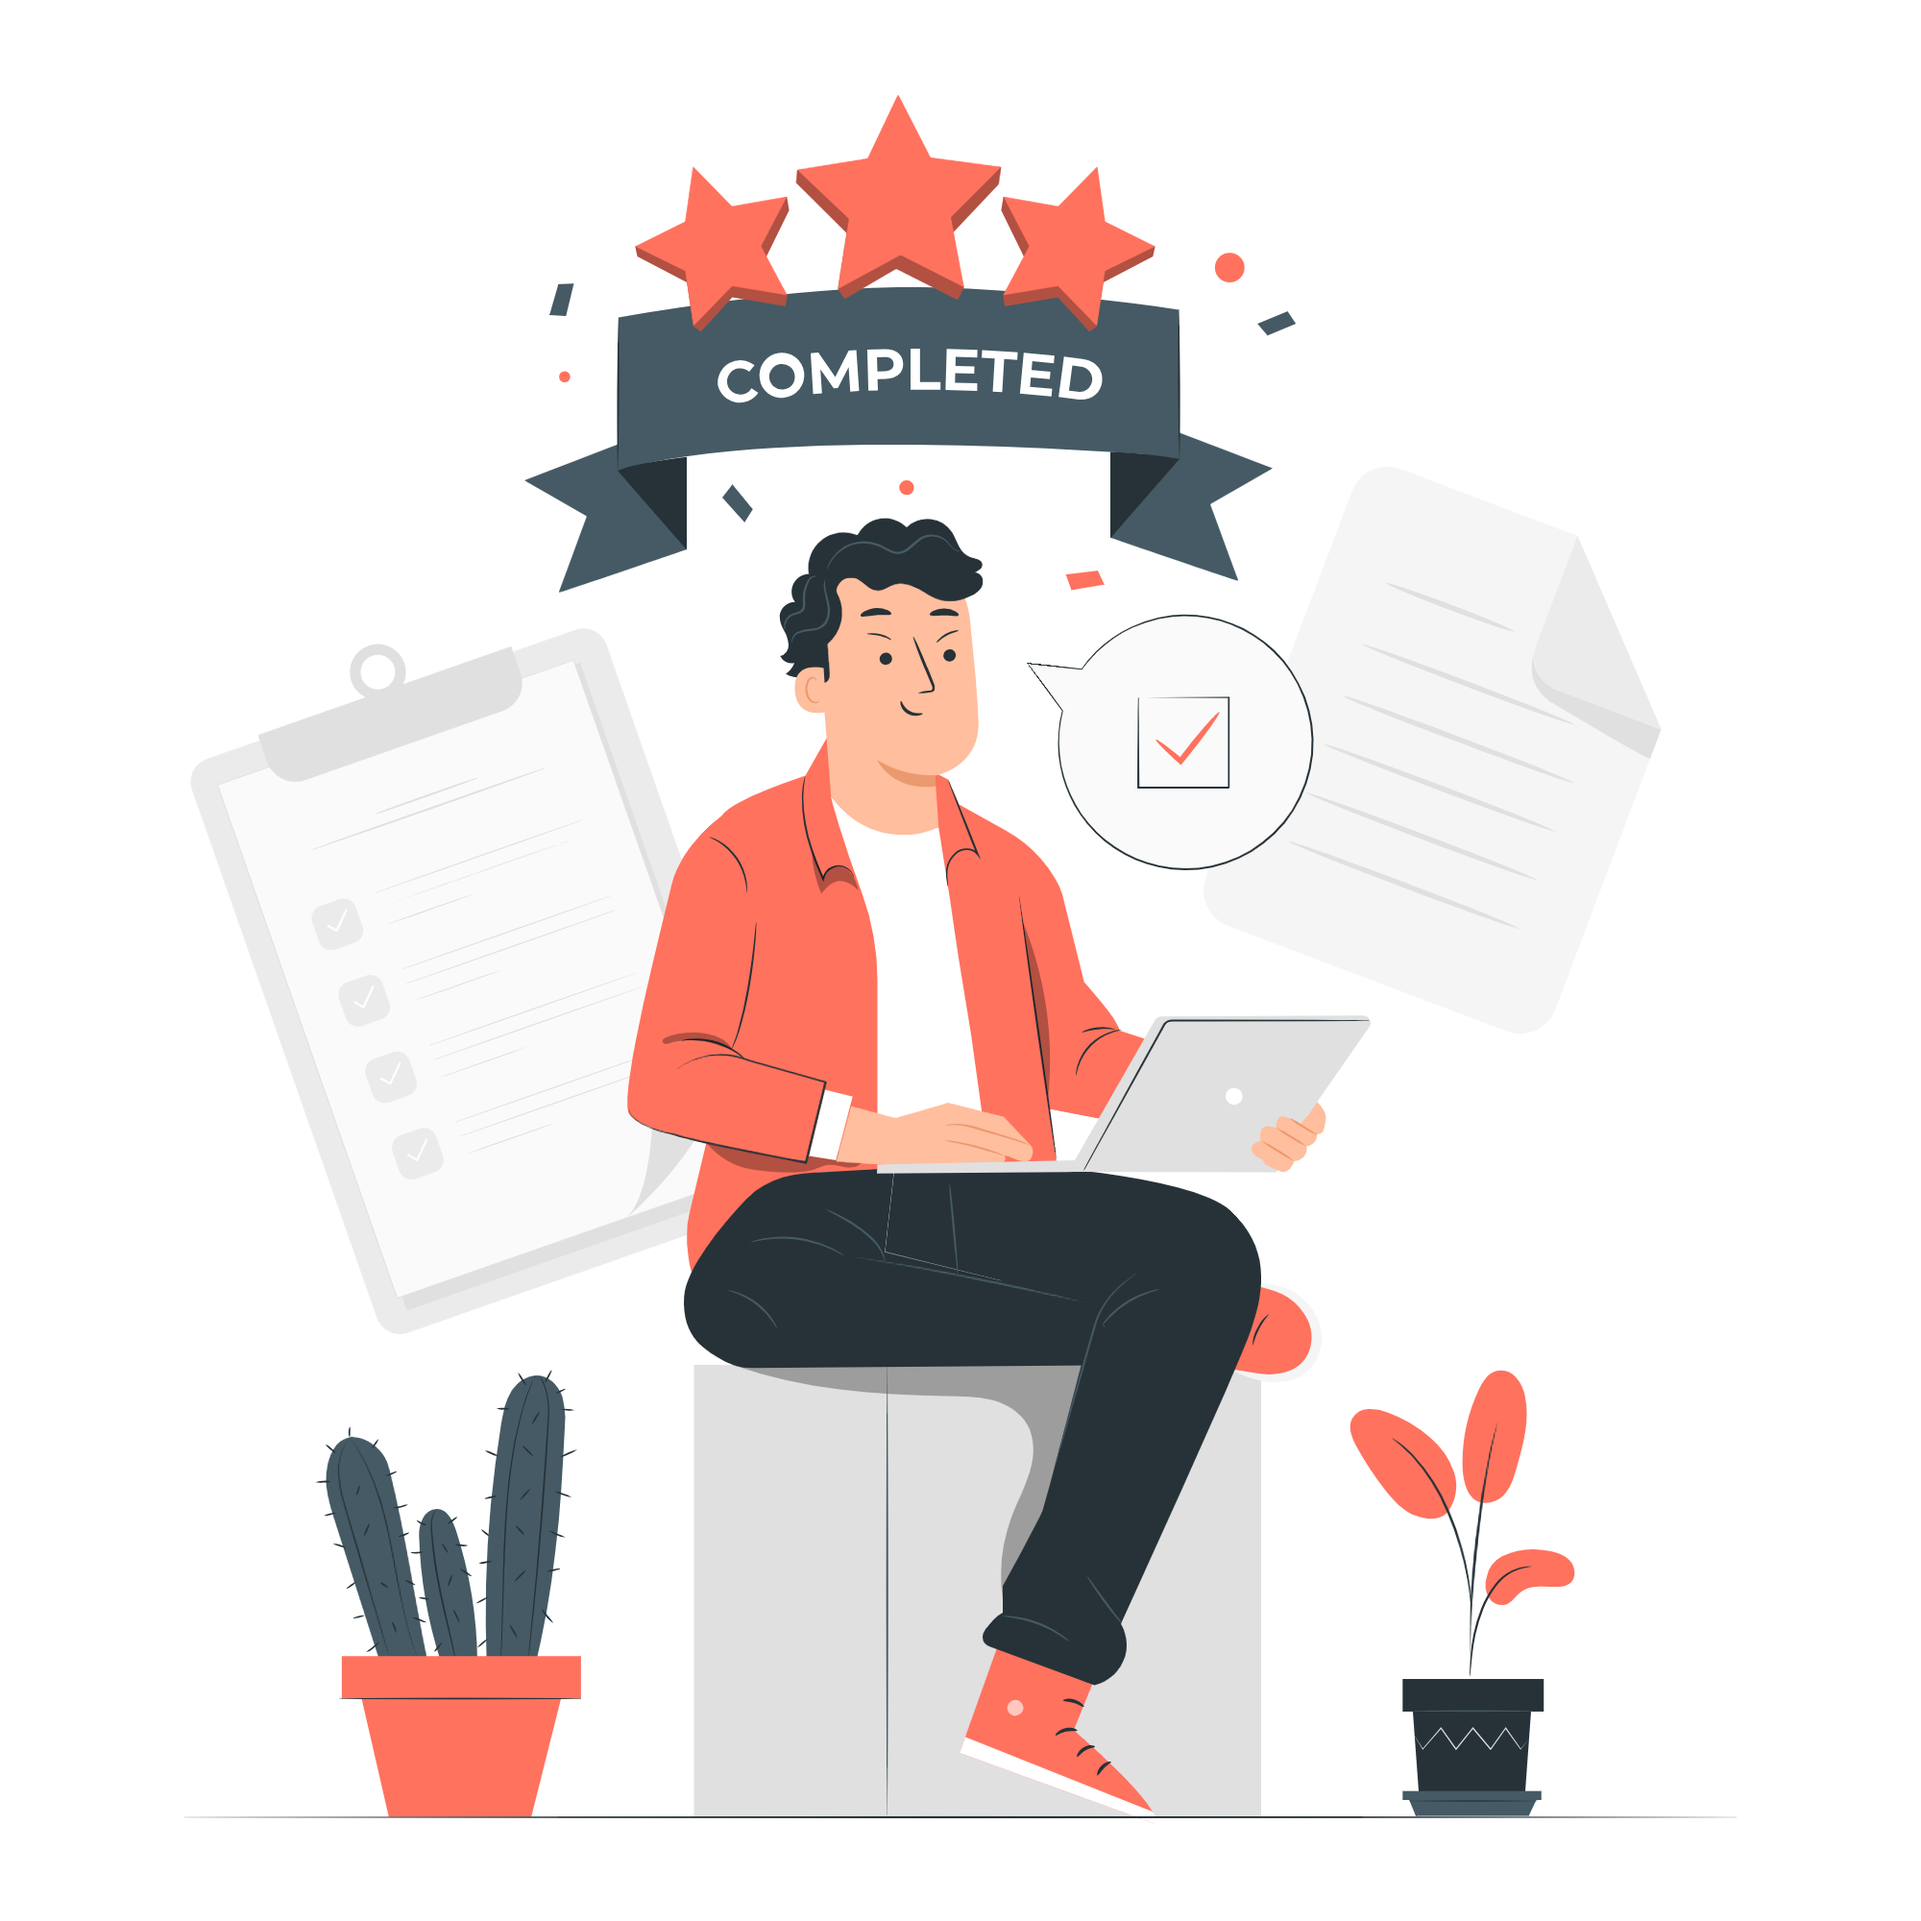
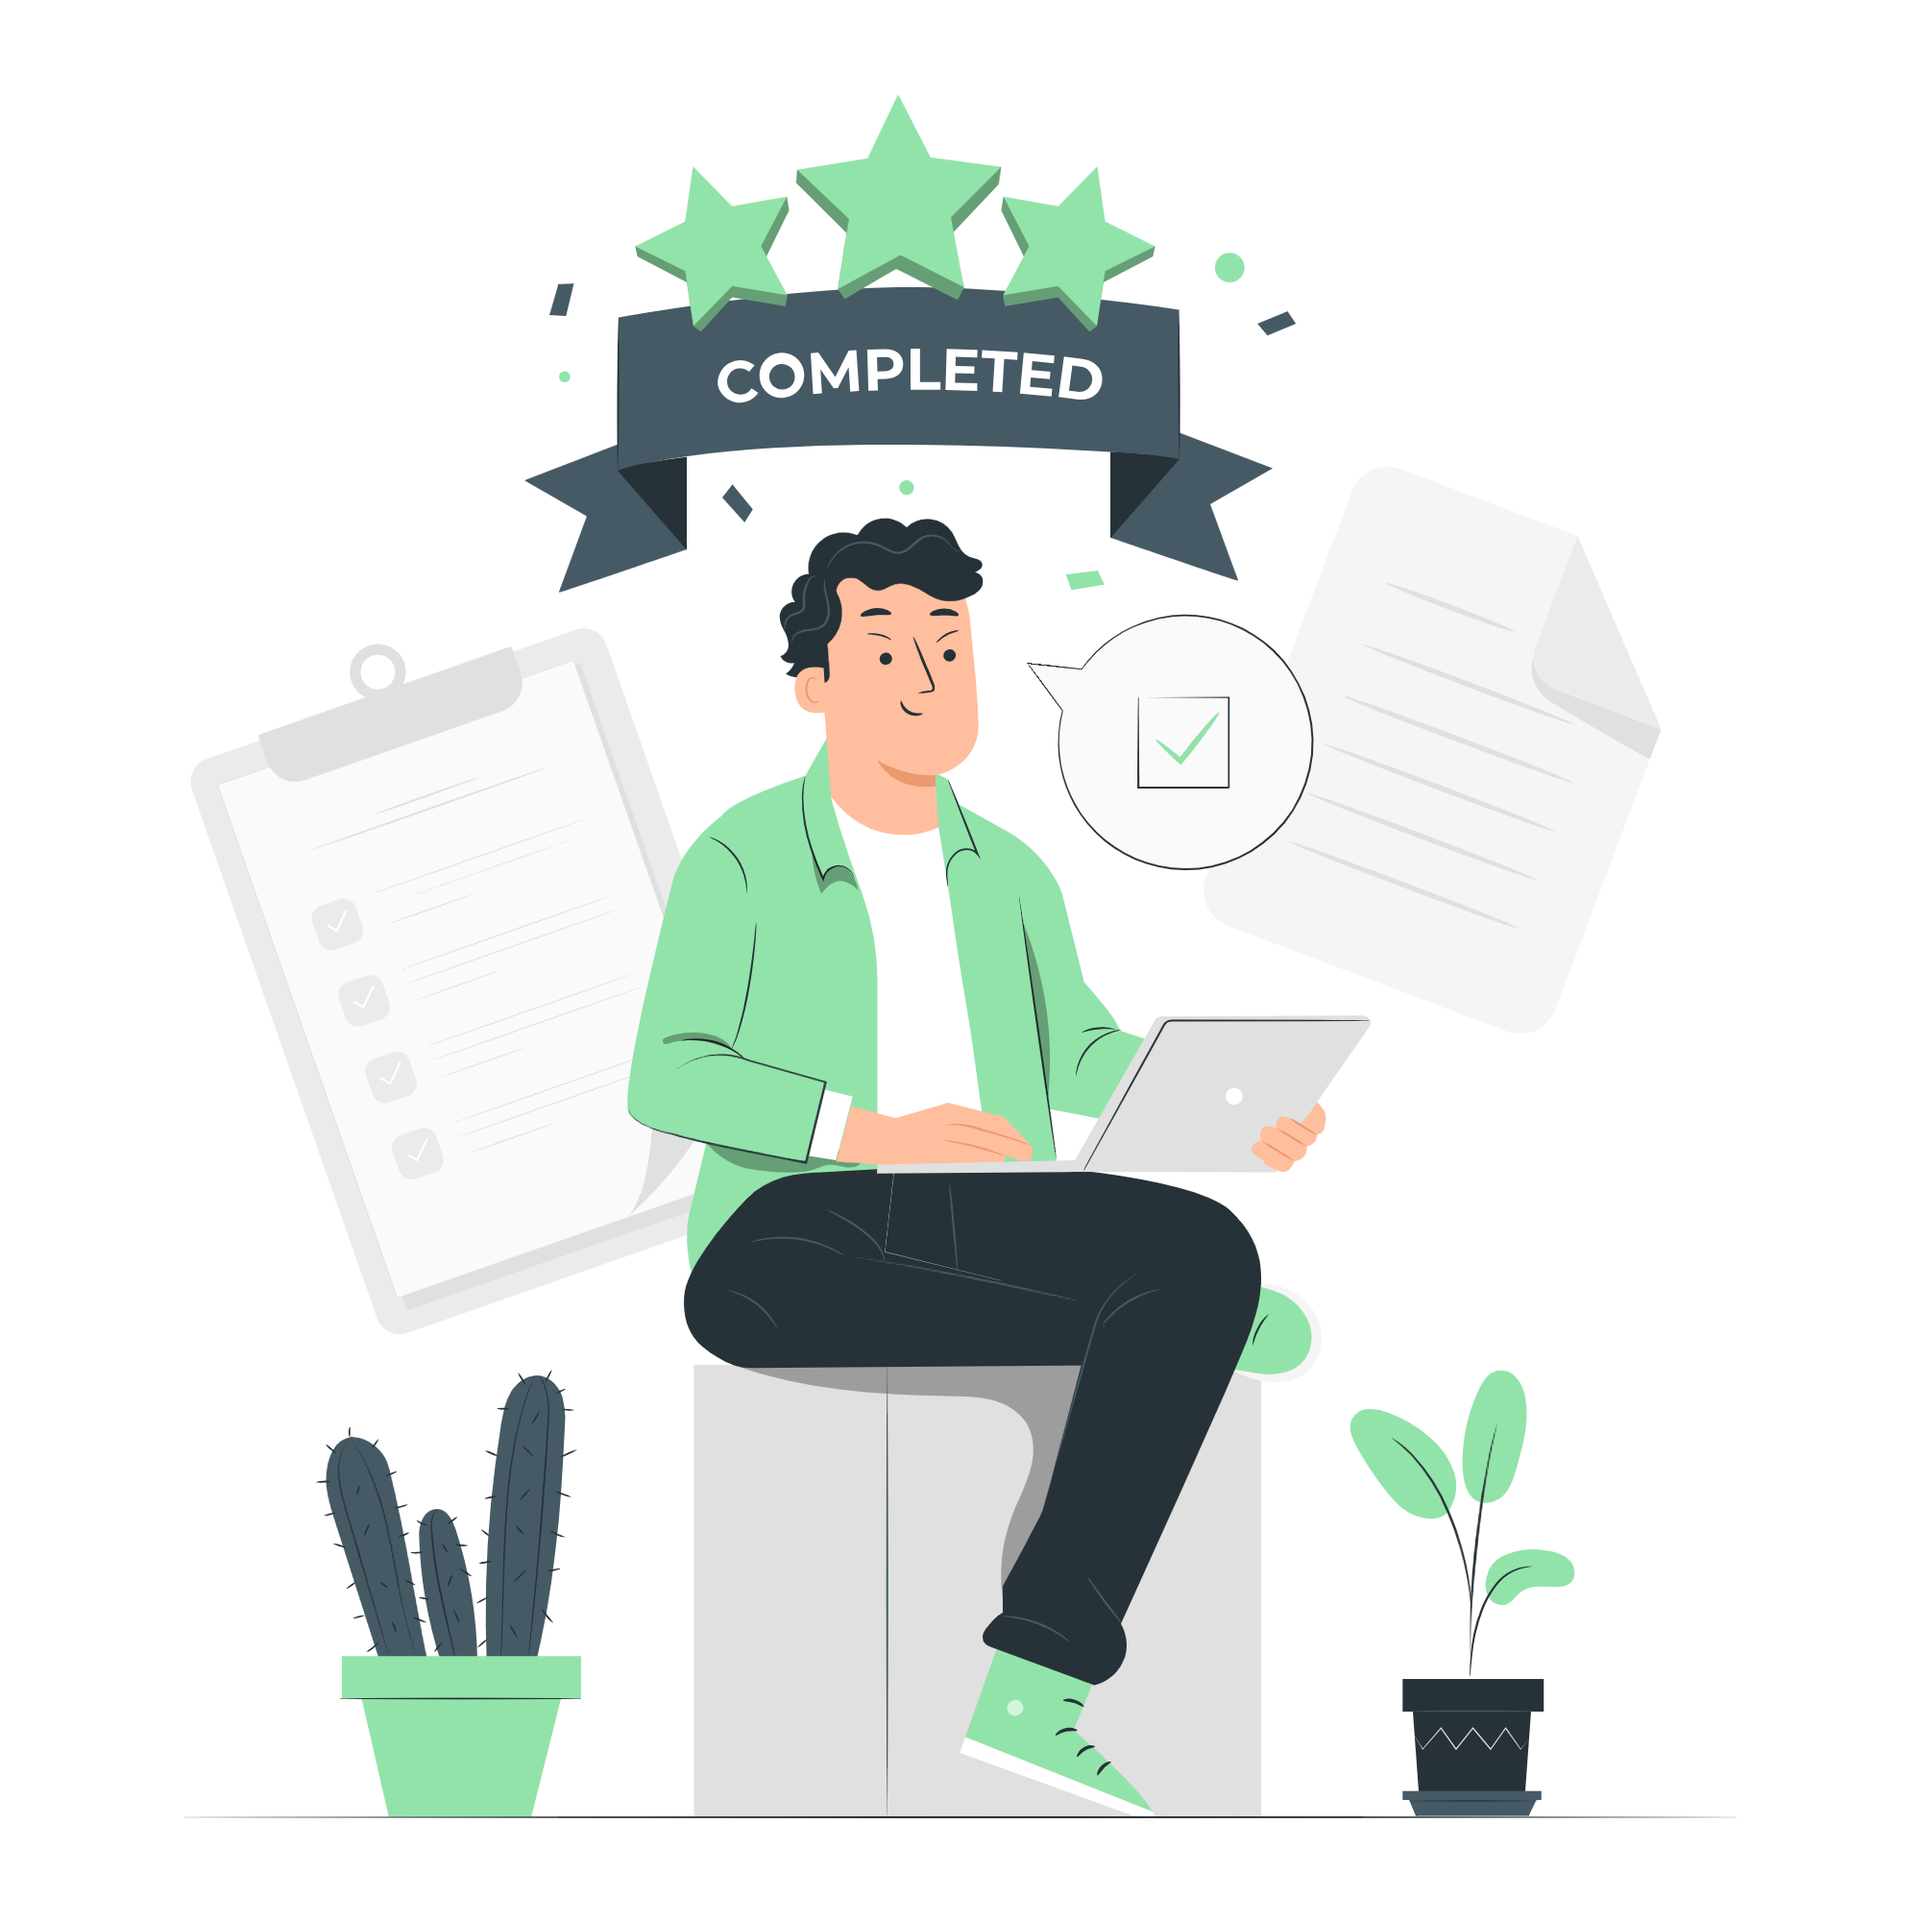
bug fixes

diff --git a/lib/screens/user_data.dart b/lib/screens/user_data.dart
@@ -1,4 +1,7 @@
 import 'package:flutter/material.dart';
+import 'package:studybuddy/screens/user_data2.dart';
+import 'package:studybuddy/utils/extension.dart';
+import 'package:studybuddy/widgets/custom_textfield.dart';
 
 class UserDataScreen extends StatefulWidget {
   const UserDataScreen({super.key});
@@ -9,51 +12,147 @@ class UserDataScreen extends StatefulWidget {
 
 class _UserDataScreenState extends State<UserDataScreen> {
   final levels = ["Level 1", "Level 2", "Level 3", "Level 4", "Level 5"];
-  String? selectedItem = "Level 1";
+  late String selectedItem;
+  TextEditingController nameController = TextEditingController();
+  TextEditingController deptController = TextEditingController();
+
+  @override
+  void initState() {
+    super.initState();
+    setState(() => selectedItem = levels[0]);
+  }
 
   @override
   Widget build(BuildContext context) {
     return SafeArea(
       child: Scaffold(
-        body: Padding(
-          padding: const EdgeInsets.all(15.0),
-          child: Column(
-            mainAxisAlignment: MainAxisAlignment.spaceEvenly,
-            children: [
-              const TextField(
-                decoration: InputDecoration(
-                  border: OutlineInputBorder(),
-                  hintText: "Enter your name",
+        body: Column(
+          children: [
+            SizedBox(
+              width: context.screenWidth,
+              height: context.screenHeight * 0.2,
+              child: const Center(
+                child: Text(
+                  "Input your Details",
+                  style: TextStyle(
+                    fontSize: 16,
+                    fontWeight: FontWeight.bold,
+                  ),
                 ),
               ),
-              const TextField(
-                decoration: InputDecoration(
-                  border: OutlineInputBorder(),
-                  hintText: "Enter your department",
-                ),
+            ),
+            const SizedBox(
+              height: 45,
+            ),
+            Padding(
+              padding: const EdgeInsets.all(15.0),
+              child: Column(
+                mainAxisAlignment: MainAxisAlignment.start,
+                crossAxisAlignment: CrossAxisAlignment.end,
+                children: [
+                  TextFieldWidget(
+                    textEditingController: nameController,
+                    prefixIcon: const Icon(
+                      Icons.person,
+                      size: 18,
+                    ),
+                    hintText: "Enter John Doe",
+                    label: "Name",
+                  ),
+                  const SizedBox(
+                    height: 30,
+                  ),
+                  TextFieldWidget(
+                    textEditingController: deptController,
+                    prefixIcon: const Icon(
+                      Icons.place_rounded,
+                      size: 18,
+                    ),
+                    hintText: "E.g Information Technology",
+                    label: "Department",
+                  ),
+                  const SizedBox(
+                    height: 30,
+                  ),
+                  SizedBox(
+                    width: context.screenWidth,
+                    child: ButtonTheme(
+                      alignedDropdown: true,
+                      child: DropdownButtonFormField(
+                        isExpanded: true,
+                        value: selectedItem,
+                        items: levels.map((String item) {
+                          return DropdownMenuItem(
+                            value: item,
+                            child: Padding(
+                              padding: const EdgeInsets.all(10.0),
+                              child: Text(item),
+                            ),
+                          );
+                        }).toList(),
+                        onChanged: (value) {
+                          setState(() {
+                            selectedItem = value!;
+                          });
+                        },
+                        icon: const Icon(Icons.arrow_drop_down),
+                        decoration: const InputDecoration(
+                          border: OutlineInputBorder(
+                            borderRadius: BorderRadius.all(
+                              Radius.circular(
+                                15,
+                              ),
+                            ),
+                          ),
+                          focusedBorder: OutlineInputBorder(
+                            borderSide: BorderSide(
+                              color: Color(0xff92E3A9),
+                            ),
+                            borderRadius: BorderRadius.all(
+                              Radius.circular(
+                                15,
+                              ),
+                            ),
+                          ),
+                        ),
+                      ),
+                    ),
+                  ),
+                  const SizedBox(
+                    height: 50,
+                  ),
+                  SizedBox(
+                    width: context.screenWidth,
+                    height: 45,
+                    child: ElevatedButton(
+                      onPressed: () {
+                        Navigator.push(
+                          context,
+                          MaterialPageRoute(
+                            builder: (context) => const UserDataScreen2(),
+                          ),
+                        );
+                      },
+                      style: ElevatedButton.styleFrom(
+                        shape: RoundedRectangleBorder(
+                          borderRadius: BorderRadius.circular(15),
+                        ),
+                        backgroundColor:const Color(0xff92E3A9),
+                      ),
+                      child: const Text(
+                        "Continue",
+                        style: TextStyle(
+                          fontSize: 20,
+                          fontWeight: FontWeight.bold,
+                          color: Colors.white,
+                        ),
+                      ),
+                    ),
+                  ),
+                ],
               ),
-              DropdownButtonFormField(
-                value: selectedItem,
-                items: levels.map((String item) {
-                  return DropdownMenuItem(
-                    value: item,
-                    child: Text(item),
-                  );
-                }).toList(),
-                onChanged: (value) {
-                  setState(() {
-                    selectedItem = value;
-                  });
-                },
-                icon: const Icon(Icons.arrow_drop_down),
-                decoration: const InputDecoration(border: OutlineInputBorder()),
-              ),
-              ElevatedButton(
-                onPressed: () {},
-                child: const Text("Save"),
-              ),
-            ],
-          ),
+            ),
+          ],
         ),
       ),
     );

diff --git a/lib/screens/on_boarding.dart b/lib/screens/on_boarding.dart
@@ -21,32 +21,58 @@ class _OnBoardingScreenState extends State<OnBoardingScreen> {
   Widget build(BuildContext context) {
     return SafeArea(
       child: Scaffold(
+        appBar: AppBar(
+          actions: [
+            Row(
+              children: [
+                TextButton(
+                  onPressed: () {
+                    pageController.jumpToPage(controller.items.length - 1);
+                  },
+                  child: const Text(
+                    "Skip",
+                    style: TextStyle(
+                      fontSize: 16,
+                      color: Colors.black,
+                    ),
+                  ),
+                ),
+              ],
+            )
+          ],
+        ),
         bottomSheet: isLastPage
             ? const GetStartedBtn()
-            : Row(
-                mainAxisAlignment: MainAxisAlignment.spaceEvenly,
-                children: [
-                  SmoothPageIndicator(
-                    controller: pageController,
-                    count: controller.items.length,
-                    effect: WormEffect(
-                      dotHeight: context.screenHeight * 0.015,
-                      dotWidth: context.screenHeight * 0.015,
-                      activeDotColor: Colors.green,
+            : Padding(
+                padding: const EdgeInsets.symmetric(horizontal: 30),
+                child: Row(
+                  mainAxisAlignment: MainAxisAlignment.spaceBetween,
+                  children: [
+                    SmoothPageIndicator(
+                      controller: pageController,
+                      count: controller.items.length,
+                      effect: WormEffect(
+                        dotHeight: context.screenHeight * 0.015,
+                        dotWidth: context.screenHeight * 0.015,
+                        activeDotColor: const Color(0xff92E3A9),
+                      ),
                     ),
-                  ),
-                  TextButton(
-                    onPressed: () {
-                      pageController.nextPage(
-                          duration: const Duration(milliseconds: 300),
-                          curve: Curves.easeIn);
-                    },
-                    child: const Text(
-                      "Next",
-                      style: TextStyle(color: Colors.black),
+                    TextButton(
+                      onPressed: () {
+                        pageController.nextPage(
+                            duration: const Duration(milliseconds: 300),
+                            curve: Curves.easeIn);
+                      },
+                      child: const Text(
+                        "Next",
+                        style: TextStyle(
+                          color: Colors.black,
+                          fontSize: 16,
+                        ),
+                      ),
                     ),
-                  ),
-                ],
+                  ],
+                ),
               ),
         body: Container(
           margin: const EdgeInsets.symmetric(horizontal: 15),

diff --git a/lib/main.dart b/lib/main.dart
@@ -39,6 +39,15 @@ class MyApp extends StatelessWidget {
       home: OnboardingPref.isFirstTime()!
           ? const OnBoardingScreen()
           : const UserDataScreen(),
+        theme: ThemeData(
+          bottomSheetTheme: BottomSheetThemeData(
+            backgroundColor: Theme.of(context).scaffoldBackgroundColor,
+            modalBackgroundColor: Theme.of(context).scaffoldBackgroundColor,
+            elevation: 0,
+            modalElevation: 0,
+            
+        ),
+        ),
     );
   }
 }

diff --git a/lib/widgets/get_started_btn.dart b/lib/widgets/get_started_btn.dart
@@ -23,7 +23,7 @@ class _GetStartedBtnState extends State<GetStartedBtn> {
               5,
             ),
           ),
-          color: Colors.green,
+          color: Color(0xff92E3A9),
         ),
         child: TextButton(
           onPressed: () {

diff --git a/lib/model/onboarding_items.dart b/lib/model/onboarding_items.dart
@@ -1,4 +1,5 @@
 import 'ondoarding_info.dart';
+
 class OnboardingItems {
   List<OnboardingInfo> items = [
     OnboardingInfo(
